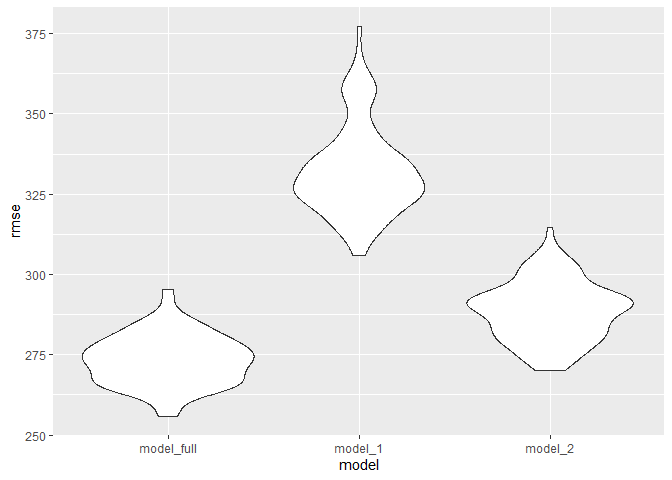
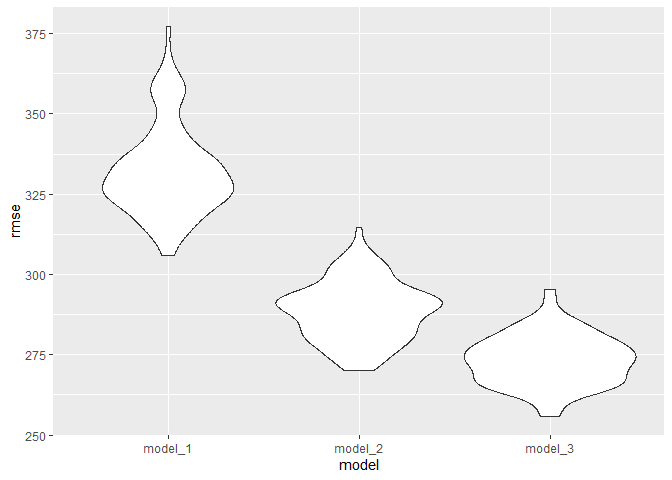
Commit everythintg!

diff --git a/p8105_hw6_cj2793.md b/p8105_hw6_cj2793.md
@@ -56,14 +56,23 @@ logistic_model <- glm(solved ~ victim_age + victim_sex + victim_race,
 ``` r
 logistic_model |>
   broom::tidy(conf.int = TRUE) |>
-  filter(term == "victim_sexMale") |>
-  select(term, estimate, conf.low, conf.high) |>
+  filter(term == "victim_sexMale") |> 
+  mutate(
+    OR = exp(estimate),
+    CI_low = exp(conf.low),
+    CI_high = exp(conf.high)
+  ) |> 
+  select(OR, CI_low, CI_high) |> 
   knitr::kable(digits = 3)
 ```
 
-| term           | estimate | conf.low | conf.high |
-|:---------------|---------:|---------:|----------:|
-| victim_sexMale |   -0.854 |   -1.126 |    -0.584 |
+|    OR | CI_low | CI_high |
+|------:|-------:|--------:|
+| 0.426 |  0.324 |   0.558 |
+
+The adjusted odds ratio for solving homicides comparing male victims to
+female victims is 0.426 (CI: 0.324~0.558), keeping all other variables
+fixed.
 
 ### 3. logistic regression for each of the cities
 
@@ -76,10 +85,15 @@ city_models <- homicide_df |>
                             data = ., family = binomial())),
     results = map(model, ~ broom::tidy(.x, conf.int = TRUE) |>
                     filter(term == "victim_sexMale") |>
-                    select(term, estimate, conf.low, conf.high))
+                    mutate(
+                      OR = exp(estimate),
+                      CI_low = exp(conf.low),
+                      CI_high = exp(conf.high)
+                    ) |>
+                    select(OR, CI_low, CI_high))
   ) |>
   unnest(results) |>
-  select(city_state, term, estimate, conf.low, conf.high)
+  select(city_state, OR, CI_low, CI_high)
 ```
 
 ``` r
@@ -87,64 +101,63 @@ city_models |>
   knitr::kable(digits = 3)
 ```
 
-| city_state         | term           | estimate | conf.low | conf.high |
-|:-------------------|:---------------|---------:|---------:|----------:|
-| Albuquerque, NM    | victim_sexMale |    0.570 |   -0.193 |     1.325 |
-| Atlanta, GA        | victim_sexMale |    0.000 |   -0.385 |     0.377 |
-| Baltimore, MD      | victim_sexMale |   -0.854 |   -1.126 |    -0.584 |
-| Baton Rouge, LA    | victim_sexMale |   -0.964 |   -1.588 |    -0.380 |
-| Birmingham, AL     | victim_sexMale |   -0.139 |   -0.560 |     0.273 |
-| Boston, MA         | victim_sexMale |   -0.404 |   -1.047 |     0.231 |
-| Buffalo, NY        | victim_sexMale |   -0.653 |   -1.243 |    -0.066 |
-| Charlotte, NC      | victim_sexMale |   -0.123 |   -0.596 |     0.330 |
-| Chicago, IL        | victim_sexMale |   -0.891 |   -1.090 |    -0.691 |
-| Cincinnati, OH     | victim_sexMale |   -0.917 |   -1.464 |    -0.405 |
-| Columbus, OH       | victim_sexMale |   -0.630 |   -0.975 |    -0.290 |
-| Denver, CO         | victim_sexMale |   -0.736 |   -1.458 |    -0.038 |
-| Detroit, MI        | victim_sexMale |   -0.541 |   -0.772 |    -0.310 |
-| Durham, NC         | victim_sexMale |   -0.208 |   -0.961 |     0.506 |
-| Fort Worth, TX     | victim_sexMale |   -0.402 |   -0.933 |     0.114 |
-| Fresno, CA         | victim_sexMale |    0.289 |   -0.567 |     1.114 |
-| Houston, TX        | victim_sexMale |   -0.341 |   -0.585 |    -0.099 |
-| Indianapolis, IN   | victim_sexMale |   -0.085 |   -0.388 |     0.216 |
-| Jacksonville, FL   | victim_sexMale |   -0.329 |   -0.624 |    -0.036 |
-| Las Vegas, NV      | victim_sexMale |   -0.178 |   -0.501 |     0.141 |
-| Long Beach, CA     | victim_sexMale |   -0.891 |   -1.947 |     0.024 |
-| Los Angeles, CA    | victim_sexMale |   -0.413 |   -0.784 |    -0.047 |
-| Louisville, KY     | victim_sexMale |   -0.712 |   -1.199 |    -0.244 |
-| Memphis, TN        | victim_sexMale |   -0.324 |   -0.642 |    -0.017 |
-| Miami, FL          | victim_sexMale |   -0.663 |   -1.191 |    -0.135 |
-| Milwaukee, wI      | victim_sexMale |   -0.319 |   -0.703 |     0.053 |
-| Minneapolis, MN    | victim_sexMale |   -0.054 |   -0.743 |     0.632 |
-| Nashville, TN      | victim_sexMale |    0.034 |   -0.385 |     0.442 |
-| New Orleans, LA    | victim_sexMale |   -0.536 |   -0.863 |    -0.208 |
-| New York, NY       | victim_sexMale |   -1.338 |   -2.019 |    -0.724 |
-| Oakland, CA        | victim_sexMale |   -0.574 |   -1.011 |    -0.143 |
-| Oklahoma City, OK  | victim_sexMale |   -0.026 |   -0.473 |     0.419 |
-| Omaha, NE          | victim_sexMale |   -0.961 |   -1.615 |    -0.341 |
-| Philadelphia, PA   | victim_sexMale |   -0.701 |   -0.978 |    -0.431 |
-| Pittsburgh, PA     | victim_sexMale |   -0.842 |   -1.337 |    -0.363 |
-| Richmond, VA       | victim_sexMale |    0.006 |   -0.727 |     0.690 |
-| San Antonio, TX    | victim_sexMale |   -0.350 |   -0.934 |     0.214 |
-| Sacramento, CA     | victim_sexMale |   -0.402 |   -1.120 |     0.273 |
-| Savannah, GA       | victim_sexMale |   -0.143 |   -0.871 |     0.577 |
-| San Bernardino, CA | victim_sexMale |   -0.692 |   -1.799 |     0.380 |
-| San Diego, CA      | victim_sexMale |   -0.884 |   -1.654 |    -0.186 |
-| San Francisco, CA  | victim_sexMale |   -0.498 |   -1.166 |     0.144 |
-| St. Louis, MO      | victim_sexMale |   -0.352 |   -0.635 |    -0.071 |
-| Stockton, CA       | victim_sexMale |    0.301 |   -0.469 |     1.097 |
-| Tampa, FL          | victim_sexMale |   -0.214 |   -1.080 |     0.621 |
-| Tulsa, OK          | victim_sexMale |   -0.025 |   -0.496 |     0.434 |
-| Washington, DC     | victim_sexMale |   -0.370 |   -0.764 |     0.013 |
+| city_state         |    OR | CI_low | CI_high |
+|:-------------------|------:|-------:|--------:|
+| Albuquerque, NM    | 1.767 |  0.825 |   3.762 |
+| Atlanta, GA        | 1.000 |  0.680 |   1.458 |
+| Baltimore, MD      | 0.426 |  0.324 |   0.558 |
+| Baton Rouge, LA    | 0.381 |  0.204 |   0.684 |
+| Birmingham, AL     | 0.870 |  0.571 |   1.314 |
+| Boston, MA         | 0.667 |  0.351 |   1.260 |
+| Buffalo, NY        | 0.521 |  0.288 |   0.936 |
+| Charlotte, NC      | 0.884 |  0.551 |   1.391 |
+| Chicago, IL        | 0.410 |  0.336 |   0.501 |
+| Cincinnati, OH     | 0.400 |  0.231 |   0.667 |
+| Columbus, OH       | 0.532 |  0.377 |   0.748 |
+| Denver, CO         | 0.479 |  0.233 |   0.962 |
+| Detroit, MI        | 0.582 |  0.462 |   0.734 |
+| Durham, NC         | 0.812 |  0.382 |   1.658 |
+| Fort Worth, TX     | 0.669 |  0.394 |   1.121 |
+| Fresno, CA         | 1.335 |  0.567 |   3.048 |
+| Houston, TX        | 0.711 |  0.557 |   0.906 |
+| Indianapolis, IN   | 0.919 |  0.678 |   1.241 |
+| Jacksonville, FL   | 0.720 |  0.536 |   0.965 |
+| Las Vegas, NV      | 0.837 |  0.606 |   1.151 |
+| Long Beach, CA     | 0.410 |  0.143 |   1.024 |
+| Los Angeles, CA    | 0.662 |  0.457 |   0.954 |
+| Louisville, KY     | 0.491 |  0.301 |   0.784 |
+| Memphis, TN        | 0.723 |  0.526 |   0.984 |
+| Miami, FL          | 0.515 |  0.304 |   0.873 |
+| Milwaukee, wI      | 0.727 |  0.495 |   1.054 |
+| Minneapolis, MN    | 0.947 |  0.476 |   1.881 |
+| Nashville, TN      | 1.034 |  0.681 |   1.556 |
+| New Orleans, LA    | 0.585 |  0.422 |   0.812 |
+| New York, NY       | 0.262 |  0.133 |   0.485 |
+| Oakland, CA        | 0.563 |  0.364 |   0.867 |
+| Oklahoma City, OK  | 0.974 |  0.623 |   1.520 |
+| Omaha, NE          | 0.382 |  0.199 |   0.711 |
+| Philadelphia, PA   | 0.496 |  0.376 |   0.650 |
+| Pittsburgh, PA     | 0.431 |  0.263 |   0.696 |
+| Richmond, VA       | 1.006 |  0.483 |   1.994 |
+| San Antonio, TX    | 0.705 |  0.393 |   1.238 |
+| Sacramento, CA     | 0.669 |  0.326 |   1.314 |
+| Savannah, GA       | 0.867 |  0.419 |   1.780 |
+| San Bernardino, CA | 0.500 |  0.166 |   1.462 |
+| San Diego, CA      | 0.413 |  0.191 |   0.830 |
+| San Francisco, CA  | 0.608 |  0.312 |   1.155 |
+| St. Louis, MO      | 0.703 |  0.530 |   0.932 |
+| Stockton, CA       | 1.352 |  0.626 |   2.994 |
+| Tampa, FL          | 0.808 |  0.340 |   1.860 |
+| Tulsa, OK          | 0.976 |  0.609 |   1.544 |
+| Washington, DC     | 0.691 |  0.466 |   1.014 |
 
 ### 4. Create a plot to visualize the ORs and CIs
 
 ``` r
 city_models |>
-  mutate(OR = exp(estimate), conf.low = exp(conf.low), conf.high = exp(conf.high)) |>
   ggplot(aes(x = reorder(city_state, OR), y = OR)) +
   geom_point() +
-  geom_errorbar(aes(ymin = conf.low, ymax = conf.high), width = 0.2) +
+  geom_errorbar(aes(ymin = CI_low, ymax = CI_high), width = 0.2) +
   labs(
     title = "Estimated Odds Ratios for Solving Homicides by City",
     x = "City, State",
@@ -180,17 +193,32 @@ birthweight_df <- read_csv("data/birthweightdata.csv")
     ## ℹ Specify the column types or set `show_col_types = FALSE` to quiet this message.
 
 ``` r
-birthweight_df <- birthweight_df |>
+birthweight_df <- birthweight_df  |> 
+  janitor::clean_names() |>
   mutate(
-    babysex = factor(babysex, levels = c(1, 2), labels = c("Male", "Female")),
-    frace = factor(frace, levels = c(1, 2, 3, 4, 8, 9), labels = c("White", "Black", "Asian", "Puerto Rican", "Other", "Unknown")),
-    malform = factor(malform, levels = c(0, 1), labels = c("Absent", "Present")),
-    mrace = factor(mrace, levels = c(1, 2, 3, 4, 8), labels = c("White", "Black", "Asian", "Puerto Rican", "Other")),
-    parity = as.integer(parity),
-    pnumlbw = as.integer(pnumlbw),
-    pnumsga = as.integer(pnumsga),
-    smoken = as.integer(smoken)
-  ) |>
+    babysex = 
+        case_match(babysex,
+            1 ~ "male",
+            2 ~ "female"
+        ),
+    babysex = fct_infreq(babysex),
+    frace = 
+        case_match(frace,
+            1 ~ "white",
+            2 ~ "black", 
+            3 ~ "asian", 
+            4 ~ "puerto rican", 
+            8 ~ "other"),
+    frace = fct_infreq(frace),
+    mrace = 
+        case_match(mrace,
+            1 ~ "white",
+            2 ~ "black", 
+            3 ~ "asian", 
+            4 ~ "puerto rican",
+            8 ~ "other"),
+    mrace = fct_infreq(mrace),
+    malform = as.logical(malform)) |>
   drop_na()
 ```
 
@@ -211,40 +239,40 @@ summary(birthweight_model)
     ## 
     ## Residuals:
     ##      Min       1Q   Median       3Q      Max 
-    ## -1097.57  -184.80    -3.47   173.17  2344.32 
+    ## -1097.68  -184.86    -3.33   173.09  2344.15 
     ## 
     ## Coefficients: (3 not defined because of singularities)
     ##                     Estimate Std. Error t value Pr(>|t|)    
-    ## (Intercept)       -6264.8116   660.4292  -9.486  < 2e-16 ***
-    ## babysexFemale        28.7153     8.4656   3.392  0.00070 ***
-    ## bhead               130.7846     3.4524  37.882  < 2e-16 ***
-    ## blength              74.9560     2.0218  37.075  < 2e-16 ***
-    ## delwt                 4.1000     0.3948  10.384  < 2e-16 ***
-    ## fincome               0.2898     0.1795   1.614  0.10658    
-    ## fraceBlack           14.3481    46.1519   0.311  0.75590    
-    ## fraceAsian           21.2941    69.2985   0.307  0.75864    
-    ## fracePuerto Rican   -46.9304    44.6798  -1.050  0.29361    
-    ## fraceOther            4.3014    74.0769   0.058  0.95370    
-    ## gaweeks              11.5449     1.4654   7.878 4.17e-15 ***
-    ## malformPresent        9.5146    70.6279   0.135  0.89284    
-    ## menarche             -3.5538     2.8952  -1.227  0.21971    
-    ## mheight               9.7748    10.3120   0.948  0.34323    
-    ## momage                0.7604     1.2222   0.622  0.53388    
-    ## mraceBlack         -151.4008    46.0471  -3.288  0.00102 ** 
-    ## mraceAsian          -91.3363    71.9216  -1.270  0.20417    
-    ## mracePuerto Rican   -56.4815    45.1386  -1.251  0.21090    
-    ## parity               95.5430    40.4808   2.360  0.01831 *  
+    ## (Intercept)       -6265.3914   660.4011  -9.487  < 2e-16 ***
+    ## babysexfemale        28.7073     8.4652   3.391 0.000702 ***
+    ## bhead               130.7781     3.4523  37.881  < 2e-16 ***
+    ## blength              74.9536     2.0217  37.075  < 2e-16 ***
+    ## delwt                 4.1007     0.3948  10.386  < 2e-16 ***
+    ## fincome               0.2898     0.1795   1.614 0.106551    
+    ## fraceblack           14.3313    46.1501   0.311 0.756168    
+    ## fracepuerto rican   -46.9962    44.6782  -1.052 0.292912    
+    ## fraceasian           21.2361    69.2960   0.306 0.759273    
+    ## fraceother            4.2969    74.0741   0.058 0.953745    
+    ## gaweeks              11.5494     1.4654   7.882 4.06e-15 ***
+    ## malformTRUE           9.7650    70.6259   0.138 0.890039    
+    ## menarche             -3.5508     2.8951  -1.226 0.220083    
+    ## mheight               9.7874    10.3116   0.949 0.342588    
+    ## momage                0.7593     1.2221   0.621 0.534418    
+    ## mraceblack         -151.4354    46.0453  -3.289 0.001014 ** 
+    ## mracepuerto rican   -56.4787    45.1369  -1.251 0.210901    
+    ## mraceasian          -91.3866    71.9190  -1.271 0.203908    
+    ## parity               95.5411    40.4793   2.360 0.018307 *  
     ## pnumlbw                   NA         NA      NA       NA    
     ## pnumsga                   NA         NA      NA       NA    
-    ## ppbmi                 4.3373    14.8919   0.291  0.77087    
-    ## ppwt                 -3.4683     2.6122  -1.328  0.18435    
-    ## smoken               -4.8401     0.5867  -8.249  < 2e-16 ***
+    ## ppbmi                 4.3538    14.8913   0.292 0.770017    
+    ## ppwt                 -3.4716     2.6121  -1.329 0.183913    
+    ## smoken               -4.8544     0.5871  -8.269  < 2e-16 ***
     ## wtgain                    NA         NA      NA       NA    
     ## ---
     ## Signif. codes:  0 '***' 0.001 '**' 0.01 '*' 0.05 '.' 0.1 ' ' 1
     ## 
     ## Residual standard error: 272.5 on 4320 degrees of freedom
-    ## Multiple R-squared:  0.7183, Adjusted R-squared:  0.7169 
+    ## Multiple R-squared:  0.7183, Adjusted R-squared:  0.717 
     ## F-statistic: 524.6 on 21 and 4320 DF,  p-value: < 2.2e-16
 
 ``` r
@@ -268,12 +296,29 @@ ggplot(birthweight_df_1, aes(x = pred, y = resid)) +
 
 ![](p8105_hw6_cj2793_files/figure-gfm/plot1%20for%20problem3-1.png)<!-- -->
 
+The full model for predicting birthweight (bwt) includes a comprehensive
+set of variables that are believed to influence birthweight based on
+biological, maternal, and socioeconomic factors. Key predictors include
+baby characteristics such as sex, head circumference, and length at
+birth, which directly relate to physical growth. Maternal factors such
+as weight, height, age, and pre-pregnancy BMI are included because they
+influence maternal health and fetal growth. Socioeconomic factors like
+family income and parents’ race are added as proxies for access to
+healthcare and resources, potentially impacting pregnancy outcomes.
+Pregnancy-specific variables, such as gestational age, parity, weight
+gain during pregnancy, and smoking behavior, are critical determinants
+of fetal growth and overall birthweight. Together, these predictors
+provide a broad and holistic view of factors affecting birthweight,
+aiming to capture both direct and indirect influences.
+
 ### 3. Cross Validation
 
 ``` r
 model_1 <- lm(bwt ~ blength + gaweeks, data = birthweight_df)
 
 model_2 <- lm(bwt ~ bhead * blength * babysex, data = birthweight_df)
+
+model_3 <- lm(bwt ~ babysex + bhead + blength + delwt + fincome + frace + gaweeks + malform + menarche + mheight + momage + mrace + parity + pnumlbw + pnumsga + ppbmi + ppwt + smoken + wtgain, data = birthweight_df)
 ```
 
 ``` r
@@ -286,23 +331,24 @@ cv_df <- crossv_mc(birthweight_df, 100) |>
 
 cv_df <- cv_df |>
   mutate(
-    model_full = 
-      map(train, \(df) lm(bwt ~ babysex + bhead + blength + delwt + fincome + frace + gaweeks + malform + menarche + mheight + momage + mrace + parity + pnumlbw + pnumsga + ppbmi + ppwt + smoken + wtgain, data = df)),
     model_1 = 
       map(train, \(df) lm(bwt ~ blength + gaweeks, data = df)),
     model_2 = 
       map(train, \(df) lm(bwt ~ bhead * blength * babysex, data = df)),
-    rmse_model_full = 
-      map2_dbl(model_full, test, \(mod, df) rmse(model = mod, data = df)),
+    model_3 = 
+      map(train, \(df) lm(bwt ~ babysex + bhead + blength + delwt + fincome + frace + gaweeks + malform + menarche + mheight + momage + mrace + parity + pnumlbw + pnumsga + ppbmi + ppwt + smoken + wtgain, data = df)),
     rmse_model_1 = 
       map2_dbl(model_1, test, \(mod, df) rmse(model = mod, data = df)),
     rmse_model_2 = 
-      map2_dbl(model_2, test, \(mod, df) rmse(model = mod, data = df))
+      map2_dbl(model_2, test, \(mod, df) rmse(model = mod, data = df)),
+    rmse_model_3 = 
+      map2_dbl(model_3, test, \(mod, df) rmse(model = mod, data = df))
   )
 ```
 
     ## Warning: There was 1 warning in `mutate()`.
-    ## ℹ In argument: `rmse_model_full = map2_dbl(...)`.
+    ## ℹ In argument: `rmse_model_3 = map2_dbl(model_3, test, function(mod, df)
+    ##   rmse(model = mod, data = df))`.
     ## Caused by warning in `predict.lm()`:
     ## ! prediction from rank-deficient fit; attr(*, "non-estim") has doubtful cases
 
@@ -319,3 +365,26 @@ cv_df |>
 ```
 
 ![](p8105_hw6_cj2793_files/figure-gfm/plot2%20for%20problem3-1.png)<!-- -->
+
+The violin plot shows the distribution of the RMSE (Root Mean Squared
+Error) for each of the three models based on 100 cross-validation
+iterations. Model 1, which only includes length at birth and gestational
+age as predictors, has the largest variability and highest RMSE values,
+indicating it performs the worst in predicting birthweight among the
+three models. Model 2, which includes head circumference, length, sex,
+and their interactions, shows an improvement in prediction accuracy,
+with lower RMSE values and narrower variability. Model 3, which is the
+full model incorporating a comprehensive set of predictors including
+maternal, socioeconomic, and baby characteristics, performs the best
+with the lowest RMSE and less variability, suggesting that including
+more relevant features leads to a more accurate prediction of
+birthweight.
+
+Considering both model simplicity and predictive performance, Model 2 is
+the best choice. Model 1 has the worst predictive performance, as
+indicated by the highest RMSE, suggesting it lacks accuracy. While Model
+3 offers the best predictive performance with the lowest RMSE, it is
+highly complex, incorporating many variables, making it difficult to
+interpret and potentially prone to overfitting. Model 2, on the other
+hand, strikes a good balance between simplicity and predictive
+performance.
